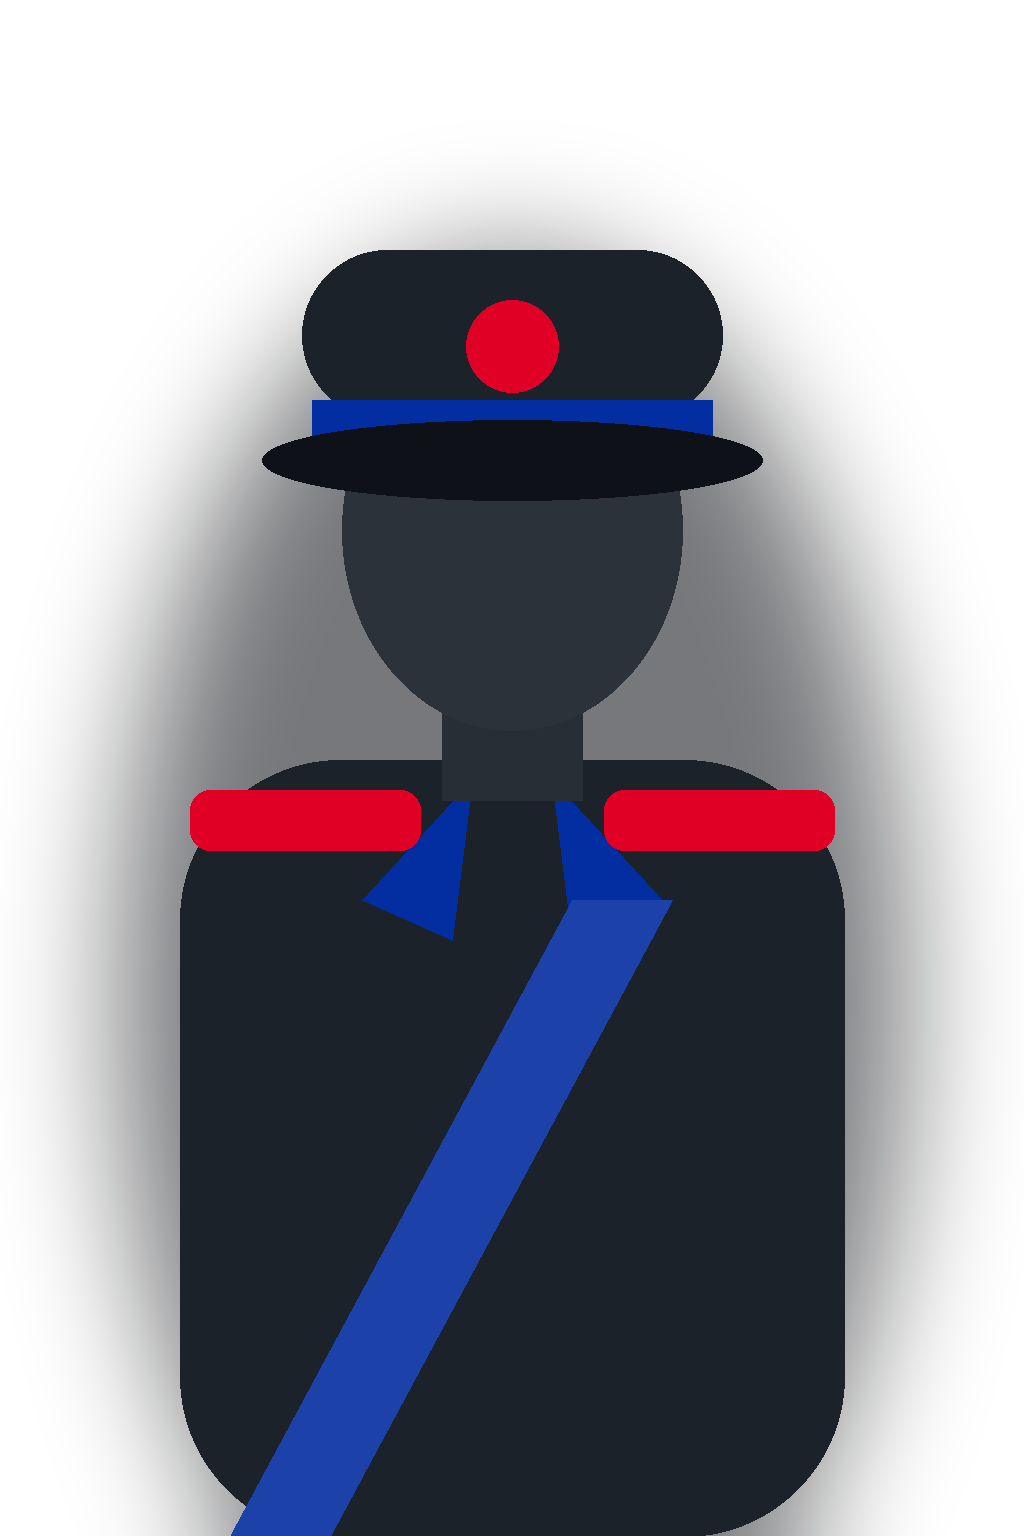
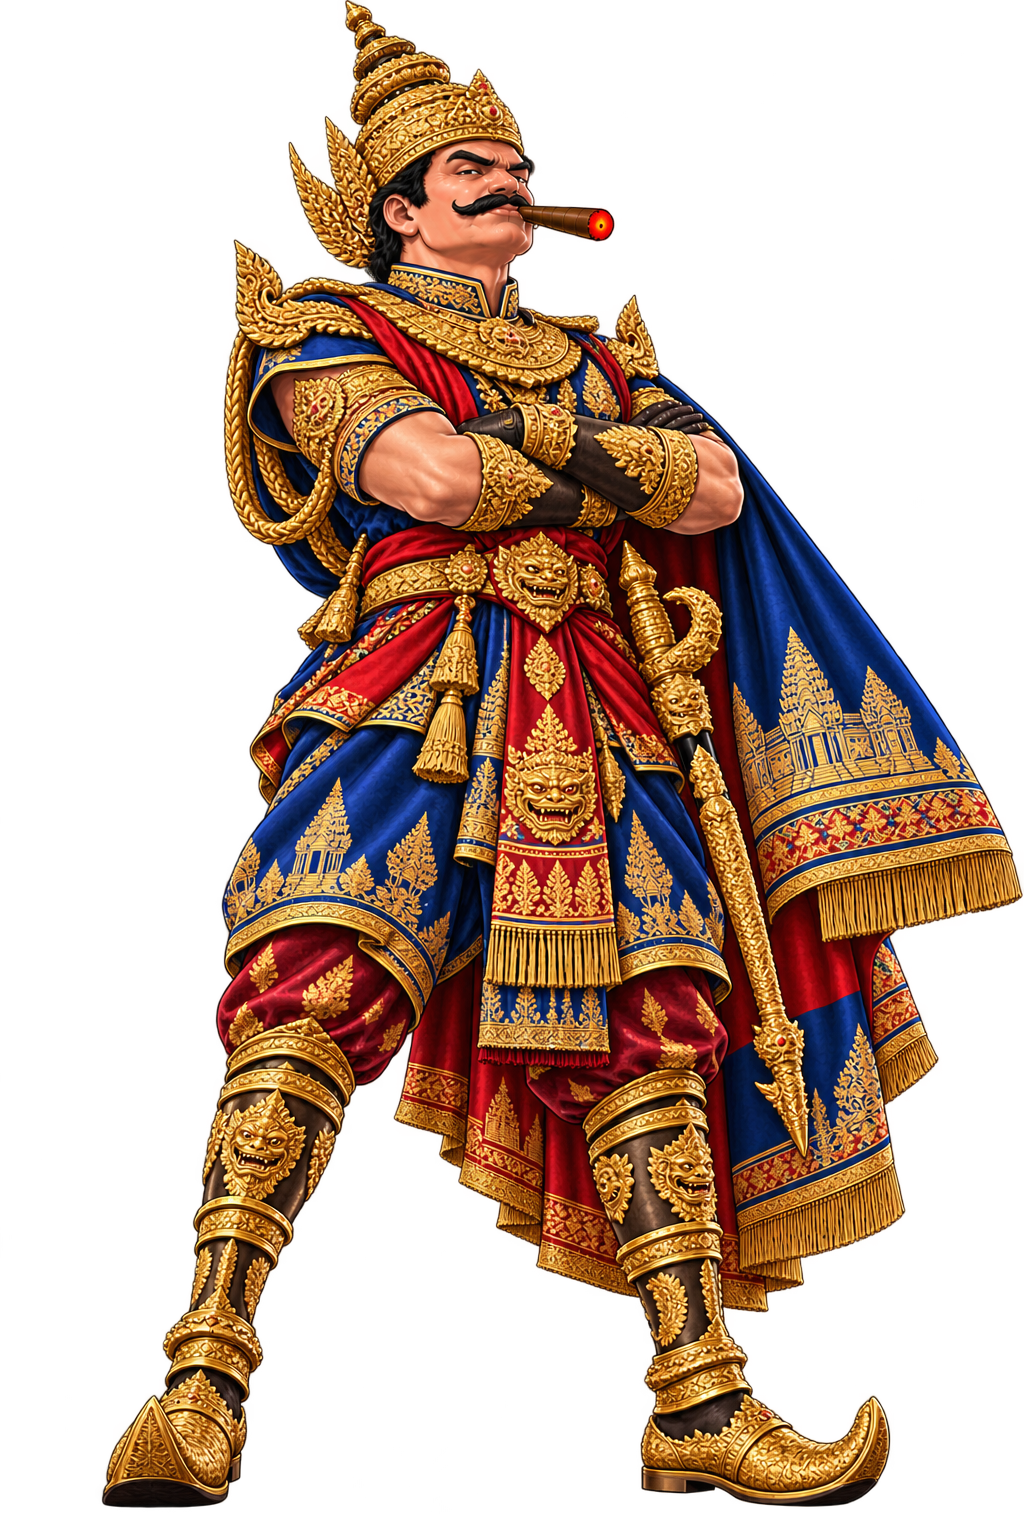
Cambodia, Colombia and Côte d'Ivoire, drawn
The Oudom Seney as an Angkorian general, crowned and carrying Angkor
Wat on his cape, for Angkor; the General in navy and gold under the
tricolour for Cartagena; the Général de corps d'armée in a chief's
ceremonial dress with a leopard skin and a spear for Yamoussoukro.
Dropped over the placeholders of the same names; the manifest's entries
carry the looks as drawn.

Claude-Session: https://claude.ai/code/session_01Vm4UdrLmhsEiZM8Dk4Wi6F

diff --git a/docs/PORTRAIT_PROMPTS.md b/docs/PORTRAIT_PROMPTS.md
@@ -1,6 +1,6 @@
 # Officer portraits: the prompt template
 
-The twenty-six drawn officers (`public/assets/characters/*.png`) are painted
+The twenty-nine drawn officers (`public/assets/characters/*.png`) are painted
 illustrations, not something a script can draw. What *can* be templated is
 the brief that produced them, so the placeholders can be replaced
 in the same style by anyone with an image generator. Every drawn portrait
@@ -32,14 +32,14 @@ without a hard edge. File name and slot are in `manifest.json` under
 | gyeongbok | `kr-daejang.png` | Daejang, South Korea | Dark green dress uniform with four silver stars, peaked cap, white gloves. |
 | watarun | `th-phon-ek.png` | Phon Ek, Thailand | White dress uniform with a red sash and gold aiguillettes, peaked cap, unbothered smile. |
 | shwedagon | `mm-bogyoke.png` | Bogyoke, Myanmar | Olive dress uniform with red collar and gold epaulettes, peaked cap, medals. |
-| angkor | `kh-oudom-seney.png` | Oudom Seney, Cambodia | Dark olive dress uniform with red collar tabs and gold stars, peaked cap. |
 | tikal | `gt-general-de-division.png` | General de División, Guatemala | Olive dress uniform with gold epaulettes and a blue-white sash, peaked cap. |
 | machupicchu | `pe-general-de-ejercito.png` | General de Ejército, Peru | Red-and-white sash over dark dress uniform, peaked cap with gold laurels. |
 
 The Malaysian slot (`my-jeneral.png`) from the third batch is in
 `manifest.json` with its look and takes the same template. China, Spain,
 Indonesia, Austria, Canada, Poland, Portugal, Romania, Argentina,
-Azerbaijan and Belgium are drawn, one officer to each nation's every level.
+Azerbaijan, Belgium, Cambodia, Colombia and Côte d'Ivoire are drawn, one
+officer to each nation's every level.
 
 ## Installing one
 
